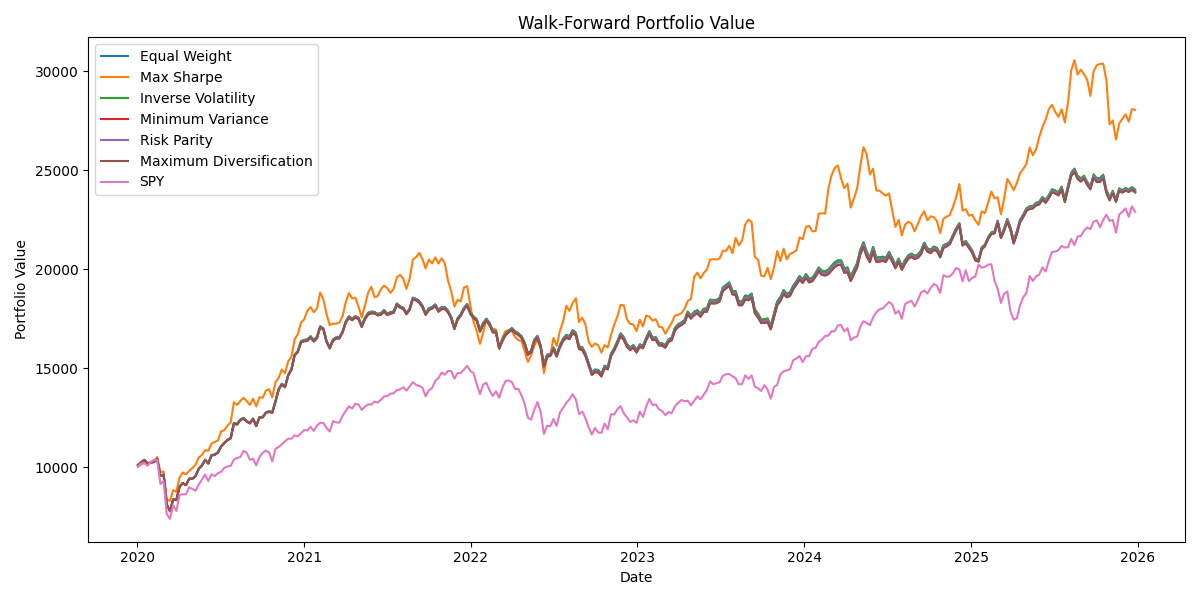
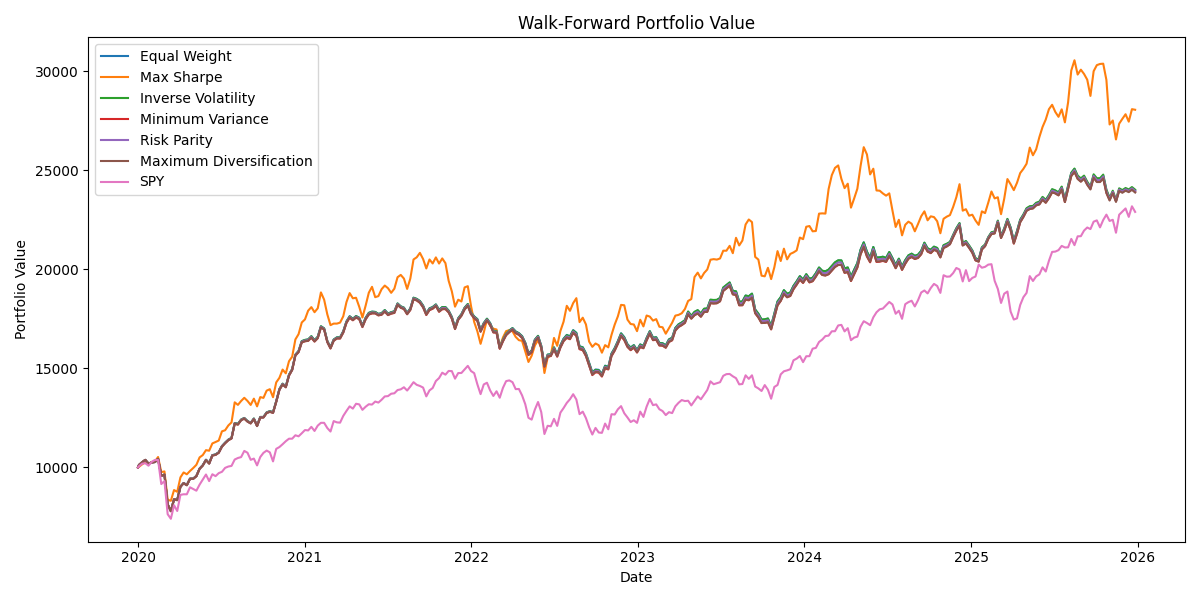
Enhance performance reporting and data handling in backtesting
- Update SPY returns processing to ensure proper weekly indexing and normalization.
- Modify walk-forward values CSV to include initial and final values for strategies.
- Improve summary CSV format to include detailed performance metrics.
- Add checks for empty returns and insufficient timestamps in summary calculations.
- Ensure SPY benchmark returns are aligned and raise errors for missing data.
- Integrate report generation into the backtest execution flow.

diff --git a/report.py b/report.py
@@ -57,6 +57,16 @@ def calculate_volatility(returns: pd.Series) -> float:
     return returns.std() * np.sqrt(PERIODS_PER_YEAR)
 
 
+def _per_period_risk_free_target(
+    risk_free_rate: float,
+    returns_are_log: bool = False,
+) -> float:
+    """Convert an annual risk-free rate into the same per-period return domain."""
+    if returns_are_log:
+        return np.log1p(risk_free_rate) / PERIODS_PER_YEAR
+    return (1 + risk_free_rate) ** (1 / PERIODS_PER_YEAR) - 1
+
+
 def calculate_sharpe_ratio(
     returns: pd.Series,
     risk_free_rate: float = RISK_FREE_RATE,
@@ -74,13 +84,14 @@ def calculate_sharpe_ratio(
 def calculate_sortino_ratio(
     returns: pd.Series,
     risk_free_rate: float = RISK_FREE_RATE,
+    returns_are_log: bool = False,
 ) -> float:
     """Annualized Sortino ratio."""
-    downside = returns[returns < 0]
+    target_return = _per_period_risk_free_target(risk_free_rate, returns_are_log)
+    downside = target_return - returns[returns < target_return]
+    downside_deviation = np.sqrt(np.mean(np.square(downside))) * np.sqrt(PERIODS_PER_YEAR)
 
-    downside_deviation = downside.std() * np.sqrt(PERIODS_PER_YEAR)
-
-    if downside_deviation == 0:
+    if downside.empty or downside_deviation == 0:
         return np.nan
 
     annual_return = returns.mean() * PERIODS_PER_YEAR
@@ -124,9 +135,54 @@ def build_summary_table(
         strategy_returns = returns[strategy].dropna()
         strategy_values = portfolio_values[strategy].dropna()
 
+        if strategy_returns.empty:
+            rows.append(
+                {
+                    "Strategy": strategy,
+                    "Status": "skipped: no return observations",
+                    "Initial Value ($)": np.nan,
+                    "Final Value ($)": np.nan,
+                    "Return Amount ($)": np.nan,
+                    "Total Return": np.nan,
+                    "CAGR": np.nan,
+                    "Volatility": np.nan,
+                    "Sharpe Ratio": np.nan,
+                    "Sortino Ratio": np.nan,
+                    "Maximum Drawdown": np.nan,
+                    "Calmar Ratio": np.nan,
+                }
+            )
+            continue
+
+        if strategy_values.index.nunique() < 2:
+            rows.append(
+                {
+                    "Strategy": strategy,
+                    "Status": "skipped: fewer than two value timestamps",
+                    "Initial Value ($)": np.nan,
+                    "Final Value ($)": np.nan,
+                    "Return Amount ($)": np.nan,
+                    "Total Return": np.nan,
+                    "CAGR": np.nan,
+                    "Volatility": np.nan,
+                    "Sharpe Ratio": np.nan,
+                    "Sortino Ratio": np.nan,
+                    "Maximum Drawdown": np.nan,
+                    "Calmar Ratio": np.nan,
+                }
+            )
+            continue
+
+        init_val = round(float(strategy_values.iloc[0]), 2)
+        final_val = round(float(strategy_values.iloc[-1]), 2)
+        return_amt = round(final_val - init_val, 2)
+
         rows.append(
             {
                 "Strategy": strategy,
+                "Initial Value ($)": init_val,
+                "Final Value ($)": final_val,
+                "Return Amount ($)": return_amt,
                 "Total Return": calculate_total_return(strategy_values),
                 "CAGR": calculate_cagr(strategy_values),
                 "Volatility": calculate_volatility(strategy_returns),

diff --git a/run_backtest.py b/run_backtest.py
@@ -183,7 +183,12 @@ def run_backtest(
 
 def build_portfolio_values(period_returns: pd.DataFrame, starting_value: float) -> pd.DataFrame:
     """Cumulative portfolio value per strategy, compounding period returns from a common start."""
-    return starting_value * (1.0 + period_returns).cumprod()
+    values = starting_value * (1.0 + period_returns).cumprod()
+    start_date = pd.Timestamp("2020-01-01")
+    if start_date not in values.index:
+        start_row = pd.DataFrame(starting_value, index=[start_date], columns=values.columns)
+        values = pd.concat([start_row, values])
+    return values
 
 
 def save_results(
@@ -205,11 +210,21 @@ def main() -> None:
 
     # Merge SPY benchmark into the strategy results so it appears as a column
     spy_returns, spy_values = build_spy_results(rebalance_dates)
-    period_returns["SPY"] = spy_returns.reindex(period_returns.index)
+    aligned_spy_returns = spy_returns.reindex(period_returns.index)
+    if aligned_spy_returns.isna().any():
+        missing_dates = aligned_spy_returns.index[aligned_spy_returns.isna()]
+        raise RuntimeError(
+            "SPY benchmark returns are missing for one or more walk-forward dates: "
+            f"{', '.join(date.strftime('%Y-%m-%d') for date in missing_dates)}"
+        )
+    period_returns["SPY"] = aligned_spy_returns
 
     portfolio_values = build_portfolio_values(period_returns, STARTING_VALUE)
 
     save_results(weights, period_returns, portfolio_values)
+
+    import report
+    report.main()
 
 
 if __name__ == "__main__":

diff --git a/main.py b/main.py
@@ -353,7 +353,10 @@ def download_spy_weekly_returns() -> pd.Series:
     if isinstance(close, pd.DataFrame):
         close = close["SPY"]
 
+    close.index = close.index.to_period("W-FRI")
+    close = close.groupby(level=0).last()
     spy_returns = np.log(close / close.shift(1)).iloc[1:]
+    spy_returns.index = spy_returns.index.to_timestamp(how="end").normalize()
     spy_returns.name = "SPY"
     return spy_returns
 
